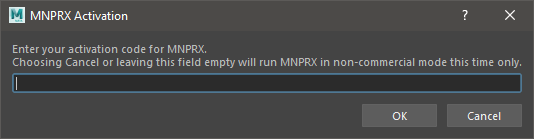
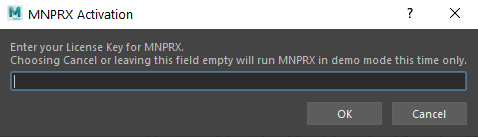
Updated Activation Docs

diff --git a/_mnprdocs/licensing.md b/_mnprdocs/licensing.md
@@ -13,76 +13,66 @@ redirect_from:
 ## MNPRX licensing basics
 
 Purchasing MNPRX grants you a license that allows you to use the full functionality of MNPRX. This license takes the form of an activation code that is sent to you (typically by email) alongside your copy of MNPRX.
-If you did not receive an activation code, please [contact sales](/contact/).
+If you did not receive an activation code, please [contact us](/contact/).
 
-A single MNPRX license can be active on only one machine at a time.
-**An internet connection is required for running the licensed version of MNPRX**. Running the non-commercial version does not require any internet connection.
-
+A single MNPRX license can be active on only one computer at a time.
+**An internet connection is required for running the licensed version of MNPRX**. Running the Demo version does not require any internet connection.
 
 
 ## Activating a license
-In order to use the full version of MNPRX on a machine, you need to activate your license on this machine.
+In order to use the full version of MNPRX on a computer, you need to activate your license.
 The first time MNPRX is run, you will be prompted with the following dialog:
 
 <figure class="pull-center">
-	<img src="/images/MNPRX/licensing/first-time.png" alt="First-time activation dialog" style="max-width: 500px">
+	<img src="/images/MNPRX/licensing/first-time.png" alt="First-time activation dialog" style="max-width: 100%;">
 	<figcaption>First-time activation dialog.</figcaption>
 </figure>
 
-Choose **Activate with key** to activate a purchased license for this machine and have access to the full functionality of MNPRX.
-If you did not purchase MNPRX, **Activate non-commercial** will activate the non-commercial version of MNPRX on this machine, with limited functionality.
-If you don't want to activate your license now, click **Cancel** to run MNPRX as non-commercial this time only. You will be prompted again the next time Maya starts.
+Choose **Activate with key** to activate a purchased license for this computer and have access to the full functionality of MNPRX.
+If you did not purchase MNPRX, **Activate demo** will activate the demo version of MNPRX on this on this computer, with limited resolution.
+If you don't want to activate your license now, click **Cancel** to run MNPRX as demo this time only. You will be prompted again the next time Maya starts.
 
 After clicking **Activate with key**, enter the activation code that you received when purchasing MNPRX:
 
 <figure class="pull-center">
-	<img src="/images/MNPRX/licensing/activation-code-prompt.png" alt="Enter activation code." style="width: 100%; max-width: 500px">
+	<img src="/images/MNPRX/licensing/activation-code-prompt.png" alt="Enter activation code." style="max-width: 100%;">
 	<figcaption>Enter your activation code in the text box and click OK.</figcaption>
 </figure>
 
 After MNPRX checks that the key is valid, and if the license has not yet been activated, you will be prompted with the End-User-License Agreement (EULA):
 
 <figure class="pull-center">
-	<img src="/images/MNPRX/licensing/eula.png" alt="End-User-License Agreement dialog" style="max-width: 400px">
+	<img src="/images/MNPRX/licensing/eula.png" alt="End-User-License Agreement dialog" style="max-width: 100%;">
 	<figcaption>End-User-License Agreement (EULA).</figcaption>
 </figure>
 
-Once you have read and agree to the End-User License Agreement, click on **I Agree**. You will then be asked to activate your license on the machine. Click **Activate** to confirm and activate this machine, or **Cancel** to abort activation.
+Once you have read and agree to the End-User License Agreement, click on **I Agree**. You will then be asked to activate your license on the computer. Click **Activate** to confirm and activate, or **Cancel** to abort activation.
 
 <figure class="pull-center">
-	<img src="/images/MNPRX/licensing/activation-confirmation.png" alt="Confirm activation" style="max-width: 500px">
+	<img src="/images/MNPRX/licensing/activation-confirmation.png" alt="Confirm activation" style="max-width: 100%;">
 	<figcaption>Confirm activation by clicking Activate.</figcaption>
 </figure>
 
 ## License migration
-When activating a license on a machine, if the license has already been activated on another machine outside of the last 24 hours, the license will automatically migrate to the new machine,
-and the old machine will be deactivated.
-**Note that you must wait at least 24 hours after the last activation to migrate the license on another machine.** Until then, activation will fail.
+Licenses can be migrated (transferred) between computers after 24 hours have passed since a prior activation.
+**If you try to migrate the license before 24 hours have passed, activation in the new computer will fail**.
 
-After inputting the activation code, you will be prompted to confirm the migration of the license to this machine. Click **Activate** to confirm, or **Cancel** to abort activation and run as non-commercial for this run of Maya. Note that the other machine will be deactivated.
+After inputting the activation code on another computer, you will be prompted to confirm the migration of the license.
+Click **Activate** to confirm, or **Cancel** to abort activation and run as demo for this session.
 
+After a successful migration, the license in the other computer will automatically deactivate and you can use MNPRX in the new computer.
 
 ## Activation failure
 In case the activation code is not valid, or the existing license is no longer valid, an error message will appear.
-**Retry** will prompt you to enter a valid activation code, and **Cancel** will run MNPRX as non-commercial this time only.
+**Retry** will prompt you to enter a valid activation code, and **Cancel** will run MNPRX as demo this session.
 
 
 ## FAQ
-_**I've activated the non-commercial version of MNPRX previously and now want to activate an Indie or Studio license**_  
-First of all, thanks for supporting us and purchasing our software!  
-The easiest way to activate your license is as follows:
-1. Run the [installation method](../installation) again from where MNPRX is installed
-2. Delete the existing non-commercial license when prompted
-3. Restart Maya
-4. Load MNPRX and activate it with your license key
+{% include faq/_header.html %}
+{% include faq/activation.md %}
+{% include faq/_footer.html %}
 
-
-_**My activation failed with the activation code that was given**_  
-If for some reason activation fails, make sure to try the following:
-* Double-check the inputted activation code.
-* Check that your subscription has not expired and that you have not activated all available licenses within the past 24 hours.
-* Delete the license file at `$MAYA_APP_DIR/MNPRX.lic` ([_MAYA_APP_DIR_ location](https://knowledge.autodesk.com/support/maya/learn-explore/caas/CloudHelp/cloudhelp/2019/ENU/Maya-EnvVar/files/GUID-228CCA33-4AFE-4380-8C3D-18D23F7EAC72-htm.html?st=$MAYA_APP_DIR)) to reset the license, restart _Maya_ and try to activate again.
-
-If the issue persists, please [contact sales](/contact/) so that we can get you onboard as soon as possible.
+If the issues persists, please [contact us](/contact/) so that we can get you onboard as soon as possible.
+{: .notice--info}
 
 {% include toc-side %}

diff --git a/_includes/faq/activation.md b/_includes/faq/activation.md
@@ -1,0 +1,24 @@
+<div class="accordion" markdown="1">
+
+#### Re-activating MNPRX after activating another version
+<div markdown="1">
+If you previously activated a Demo version and wish to activate another license, follow these steps:
+1. Run the [installation method](../installation) again from where MNPRX is installed
+2. Delete the existing license when prompted
+3. Restart Maya
+4. Load MNPRX and activate it with your license key
+</div>
+
+#### My activation failed with the activation code that was given
+<div markdown="1">
+If for some reason activation fails, make sure to try the following:
+* Double-check the entered activation code.
+* Check that your subscription has not expired and that you have not activated all available licenses within the past 24 hours.
+* Delete the license file to reset the license, restart _Maya_ and try to activate again. The license file can be in two places depending on the MNPRX installation method.
+  * User-based installation:
+    * (Windows) `<username>/Documents/maya/MNPRX.lic`
+  * All-users installation:
+    * (Windows) `C:/Program Files/Common Files/Autodesk Shared/Modules/Maya/MNPRX.lic`
+</div>
+
+</div>

diff --git a/_mnprdocs/faq.md b/_mnprdocs/faq.md
@@ -47,6 +47,9 @@ Yes, just change the viewport renderer from MNPRX to Viewport 2.0.
 ### Installation
 {% include faq/installation.md %}
 
+### Activation
+{% include faq/activation.md %}
+
 ### NoiseFX and PaintFX
 
 <div class="accordion" markdown="1">
